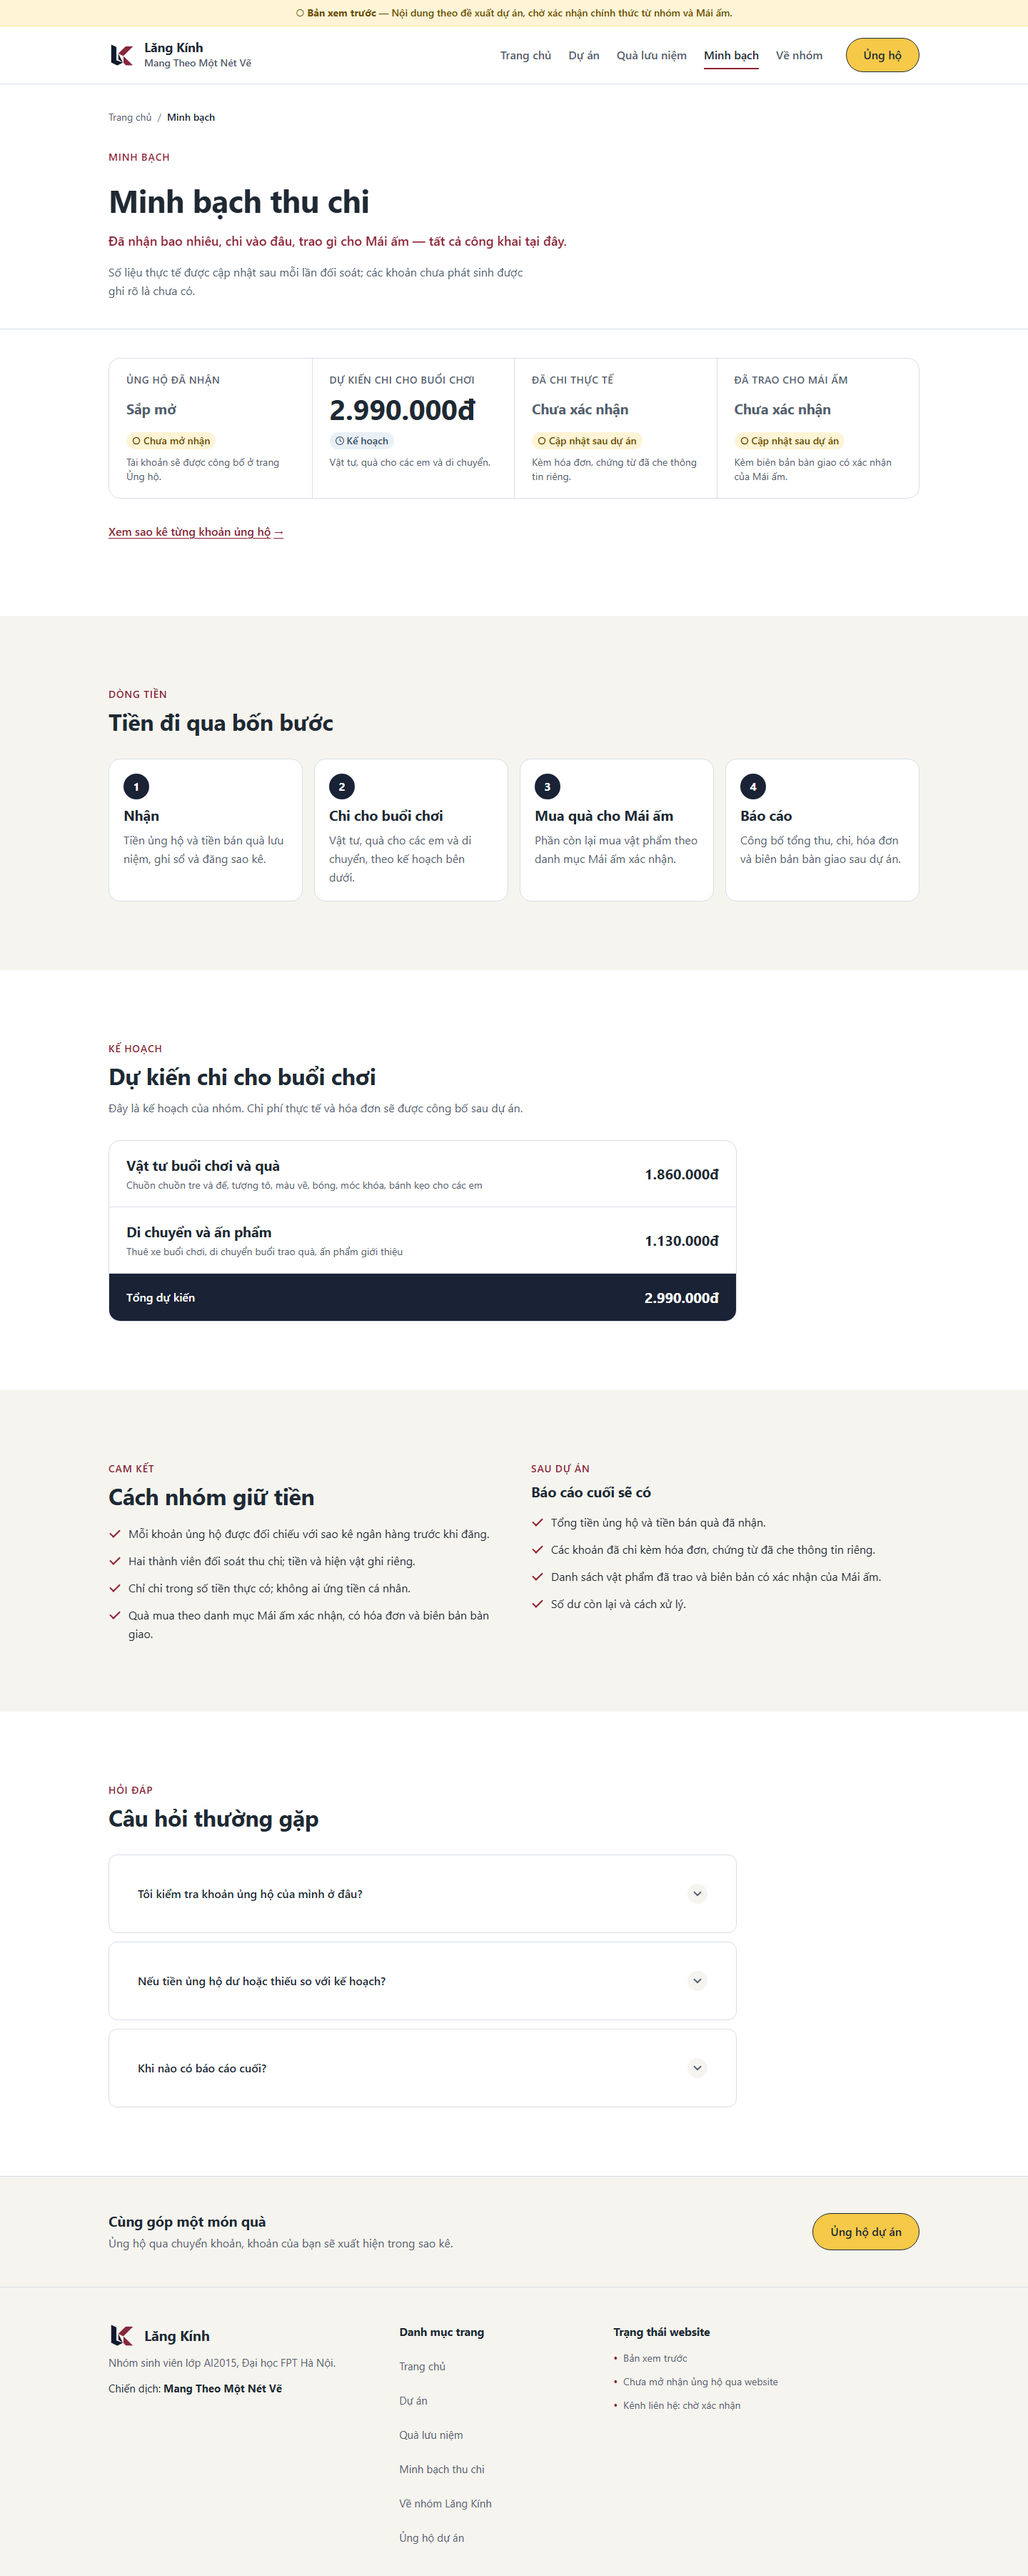
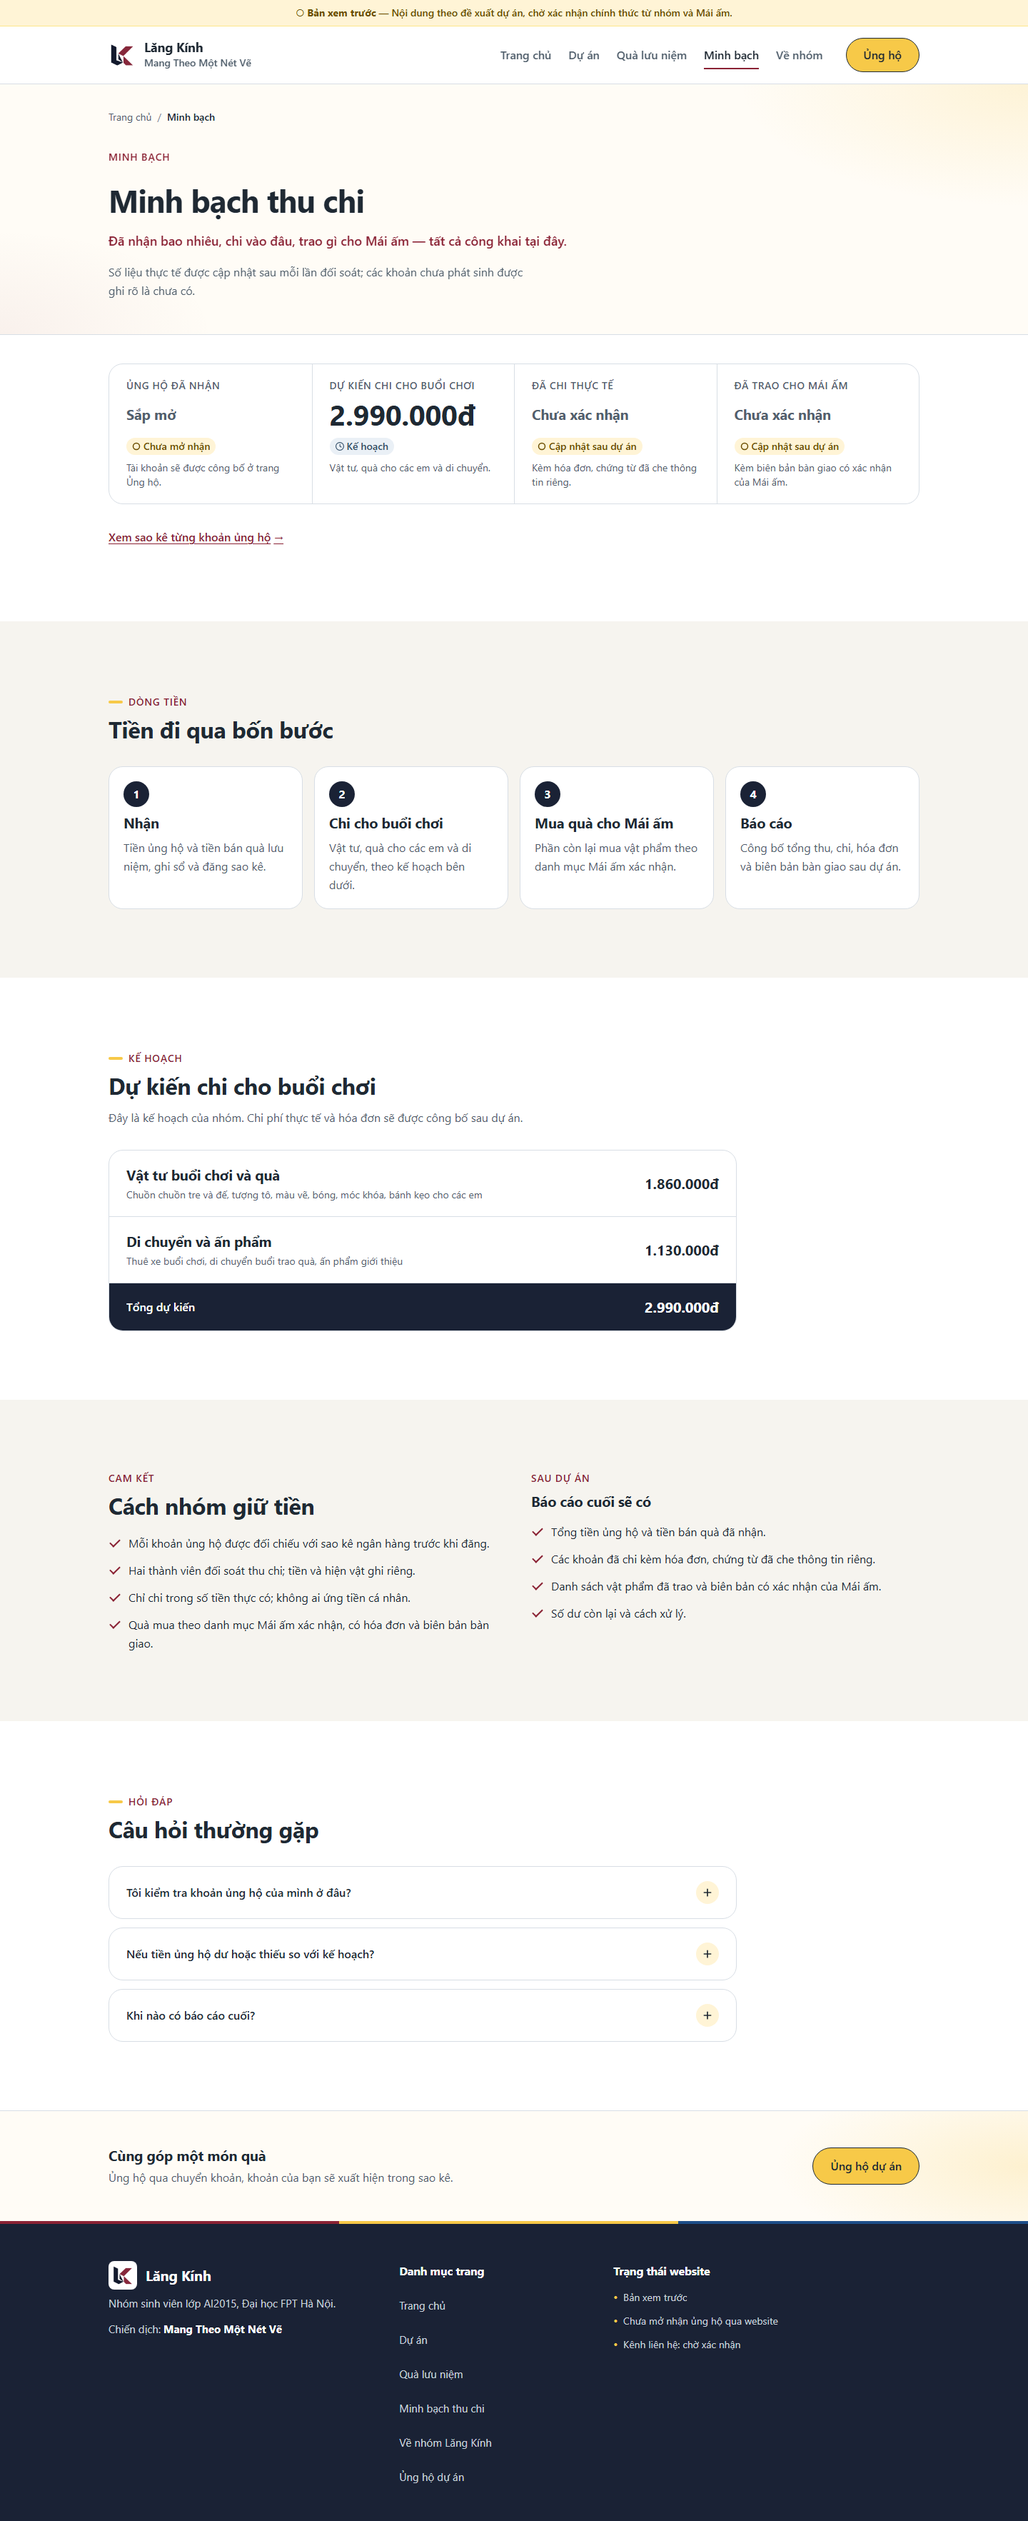
docs(c07): record round 4 UI/motion upgrade checks and screenshots for 99b2143

diff --git a/reports/c07-claude-editorial-ui.md b/reports/c07-claude-editorial-ui.md
@@ -2,9 +2,63 @@
 
 - **Người thực hiện:** Claude Opus 5.5 (`claude-opus-5-5`), người viết code duy nhất của C07 theo `docs/task-specs/C07.md`. Antigravity HOLD; không tạo worker; không giao lại.
 - **Ngày:** 08/10/2026. **Nhánh** `task/c07-claude-editorial-ui`, tạo từ HEAD đã kiểm.
-- **Baseline** `80ff81b37356d345aead982f0bab20266cc9e5c5` → vòng 1 `be7ae45` → vòng 2 `fe0415f` → **app final `f62057d1a0b793fe33e0374adfe5a037e4ca4b6a`** (vòng 3).
+- **Baseline** `80ff81b37356d345aead982f0bab20266cc9e5c5` → vòng 1 `be7ae45` → vòng 2 `fe0415f` → vòng 3 `f62057d` → **app final `99b2143ee43f55694bf3e232ec81a690cb743186`** (vòng 4).
 
-## Vòng 3 — nội dung dễ hiểu, bỏ gây quỹ đồ ăn, thêm trang Ủng hộ có QR và sao kê
+## Vòng 4 — UI và animation chuyên nghiệp, thân thiện hơn
+
+**Yêu cầu:** nâng cấp UI và animation thêm một lần, chuyên nghiệp và thân thiện hơn. Nội dung giữ nguyên như vòng 3.
+
+**Đã làm** (chỉ CSS/markup; không thêm thư viện, font hay ảnh):
+
+- **Màu và hình khối:**
+  - Bốn màu pastel cho bốn góc chơi: vàng, hồng, xanh trời, xanh lá. Chữ đậm trên nền pastel đều đạt tương phản 5,68–7,62:1.
+  - Bo góc mềm hơn (14/20/28px).
+  - Nền ấm `#fffcf6` cho hero và các dải kêu gọi.
+- **Hero trang chủ:**
+  - Gradient ấm rất nhẹ; nhãn "Dự án của nhóm Lăng Kính" dạng viên thuốc có icon.
+  - Nét cọ vàng tự vẽ dưới chữ "Một Nét Vẽ" và chuồn chuồn nét mảnh tự vẽ cạnh ảnh, mỗi hiệu ứng chạy một lần.
+  - Nhãn nổi "4 góc chơi · khoảng 180 phút" trên ảnh; nút "Ủng hộ dự án →" có mũi tên dịch nhẹ khi rê chuột.
+- **Thẻ:**
+  - Góc chơi có dải màu riêng, icon tròn theo màu, icon lắc nhẹ một lần khi rê chuột.
+  - "Ba việc, một mục tiêu" có icon màu và **mũi tên tròn vàng nối giữa các bước**.
+  - Dải ủng hộ nền tối có gradient nhẹ.
+- **Trang con:** đầu trang nền ấm, khung tóm tắt nổi có bóng; nhãn mục có gạch cọ vàng; dải kêu gọi cuối trang nền ấm.
+- **Footer** nền navy, viền ba màu (đỏ thẫm, vàng, xanh) trên cùng, link dịch nhẹ khi rê.
+- **FAQ:** dấu + xoay thành ×, khi mở có vạch đỏ thẫm bên trái và bóng nổi, dòng thoáng hơn.
+- **Tiện ích:**
+  - Thanh tiến trình đọc ở mép trên, dùng CSS scroll-driven; trình duyệt chưa hỗ trợ thì ẩn.
+  - Nút "Lên đầu trang" hiện sau khi cuộn 700px.
+  - Header dính, nền trắng mờ có blur.
+
+**Lỗi tìm và sửa trong vòng này:**
+
+1. Hiệu ứng hiện dần dùng `transform` nên đè mất hiệu ứng nhấc thẻ khi rê chuột. Đã chuyển sang `translate`/`scale` riêng.
+2. Câu hỏi FAQ khi đóng quá cao do kế thừa padding của `.card`. Đã đặt lại padding.
+3. Ảnh bằng chứng lúc đầu chụp giữa lúc hiệu ứng vẽ đang chạy. Script chụp nay chờ 2,6 giây; app không đổi cho mục này.
+
+**Kiểm tra** (trên `99b2143` đã commit sạch):
+
+| Lệnh | Exit | Kết quả |
+|---|---|---|
+| `npm.cmd ci` | 0 | cài theo lockfile |
+| `npm.cmd run check` | 0 | 0 lỗi |
+| `node --test tests/finance.test.mjs tests/donations.test.mjs` | 0 | 39/39 |
+| `npm.cmd run build` | 0 | 7 trang, 21 file |
+| audit bundle | 0 | 17/17 |
+| QA trình duyệt | 0 | 237/237 |
+
+- QA trình duyệt bao gồm tắt JS, bật giảm chuyển động, header dính và nhảy thẳng xuống cuối trang.
+- Có thêm ảnh viewport đã ổn định: `hero2-1440/375`, `proj-1440`, `faq-open-1440`.
+- Preview `http://127.0.0.1:4322/` (PID 28852) phục vụ đúng bản build.
+- Không chạy lại kiểm tra trạng thái "đã mở nhận ủng hộ" vì các component ủng hộ không đổi; vòng này chỉ đổi style chung.
+
+**Giới hạn:** thanh tiến trình, chuyển trang mượt và mở FAQ mượt chỉ thấy trên Chrome/Edge bản mới; trình duyệt khác chuyển tức thời. Chưa kiểm Safari/Firefox hay thiết bị thật.
+
+**Trạng thái: HOLD.**
+
+---
+
+## Vòng 3 (lịch sử, app `f62057d`) — nội dung dễ hiểu, bỏ gây quỹ đồ ăn, thêm trang Ủng hộ có QR và sao kê
 
 **Yêu cầu của chủ dự án:**
 
